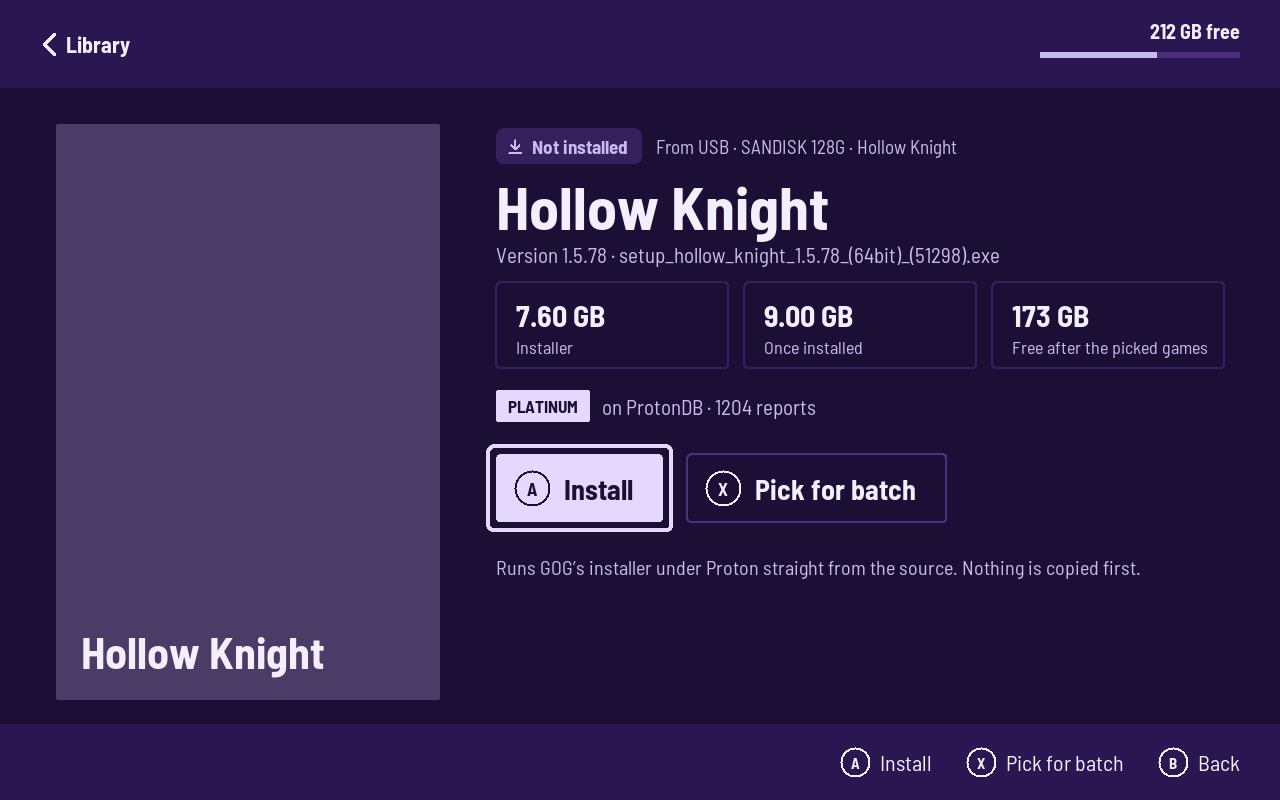
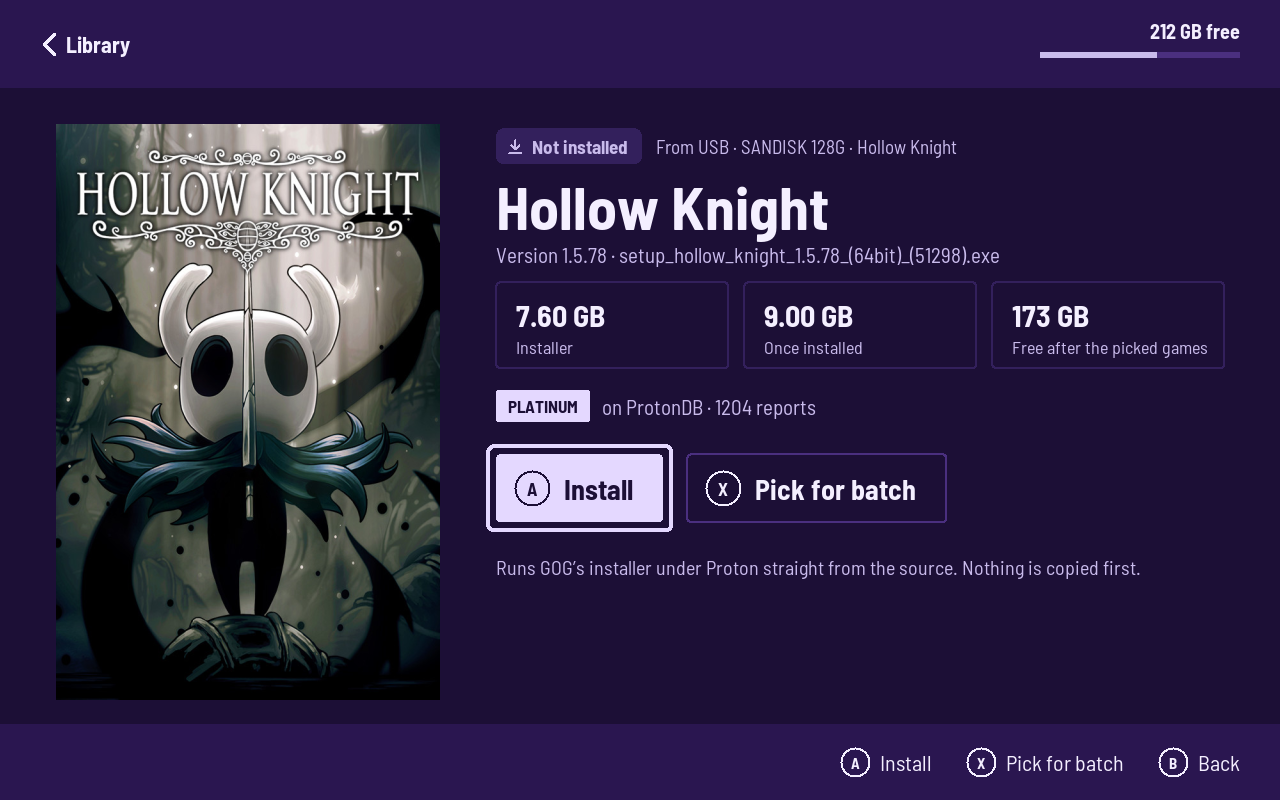
Show real cover art in the README screenshots
Captured on the Deck as before, with the covers the app downloads from
Steam for the demo games.

Changed region(s): [[0.0312, 0.1562, 0.3438, 0.875]]

diff --git a/README.md b/README.md
@@ -38,7 +38,7 @@ The library is a grid of covers. A badge on each says where it stands: not insta
 - On an installed game, **A** plays it through Steam. Below are its Proton version, fixes, and a log for the next launch; **Y** applies changes.
 - Everything can also be tapped.
 
-Covers come from Steam and GOG and are kept in `~/.cache/gog-installer/covers`. Until a cover is there, the game shows as a coloured tile with its title, as in these screenshots.
+Covers come from Steam and GOG and are kept in `~/.cache/gog-installer/covers`. Until a cover is there, the game shows as a coloured tile with its title.
 
 <p>
   <img src="docs/screenshots/details.png" alt="A game that isn't installed: sizes, ProtonDB rating, Install" width="49%">
